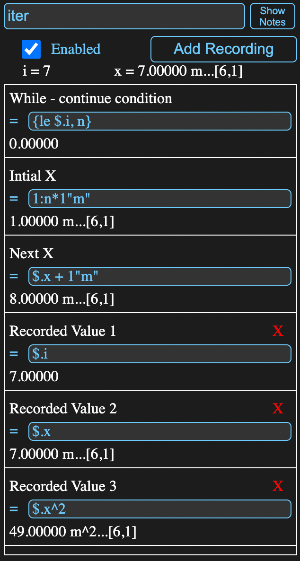
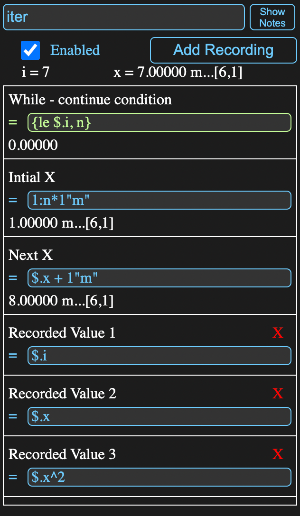
Removed current value of recorded value from iterator toolviewinfo It might not be valid when while fails

Changed region(s): [[0.0, 0.0, 0.99, 0.9922]]

diff --git a/mmworker/MMIterator.js b/mmworker/MMIterator.js
@@ -579,8 +579,8 @@ class MMIterator extends MMTool {
 		formulas.push(fReturn(this.whileFormula));
 		formulas.push(fReturn(this.initialXFormula));
 		formulas.push(fReturn(this.nextXFormula));
-		for (let rv of this.recordedValueFormulas) {
-			formulas.push(fReturn(rv));
+		for (let f of this.recordedValueFormulas) {
+			formulas.push([f.name, f.formula, '']);
 		}
 		results.i = this.i.values[0];
 		results.x = this.x ? this.x.stringWithUnit() : '';
